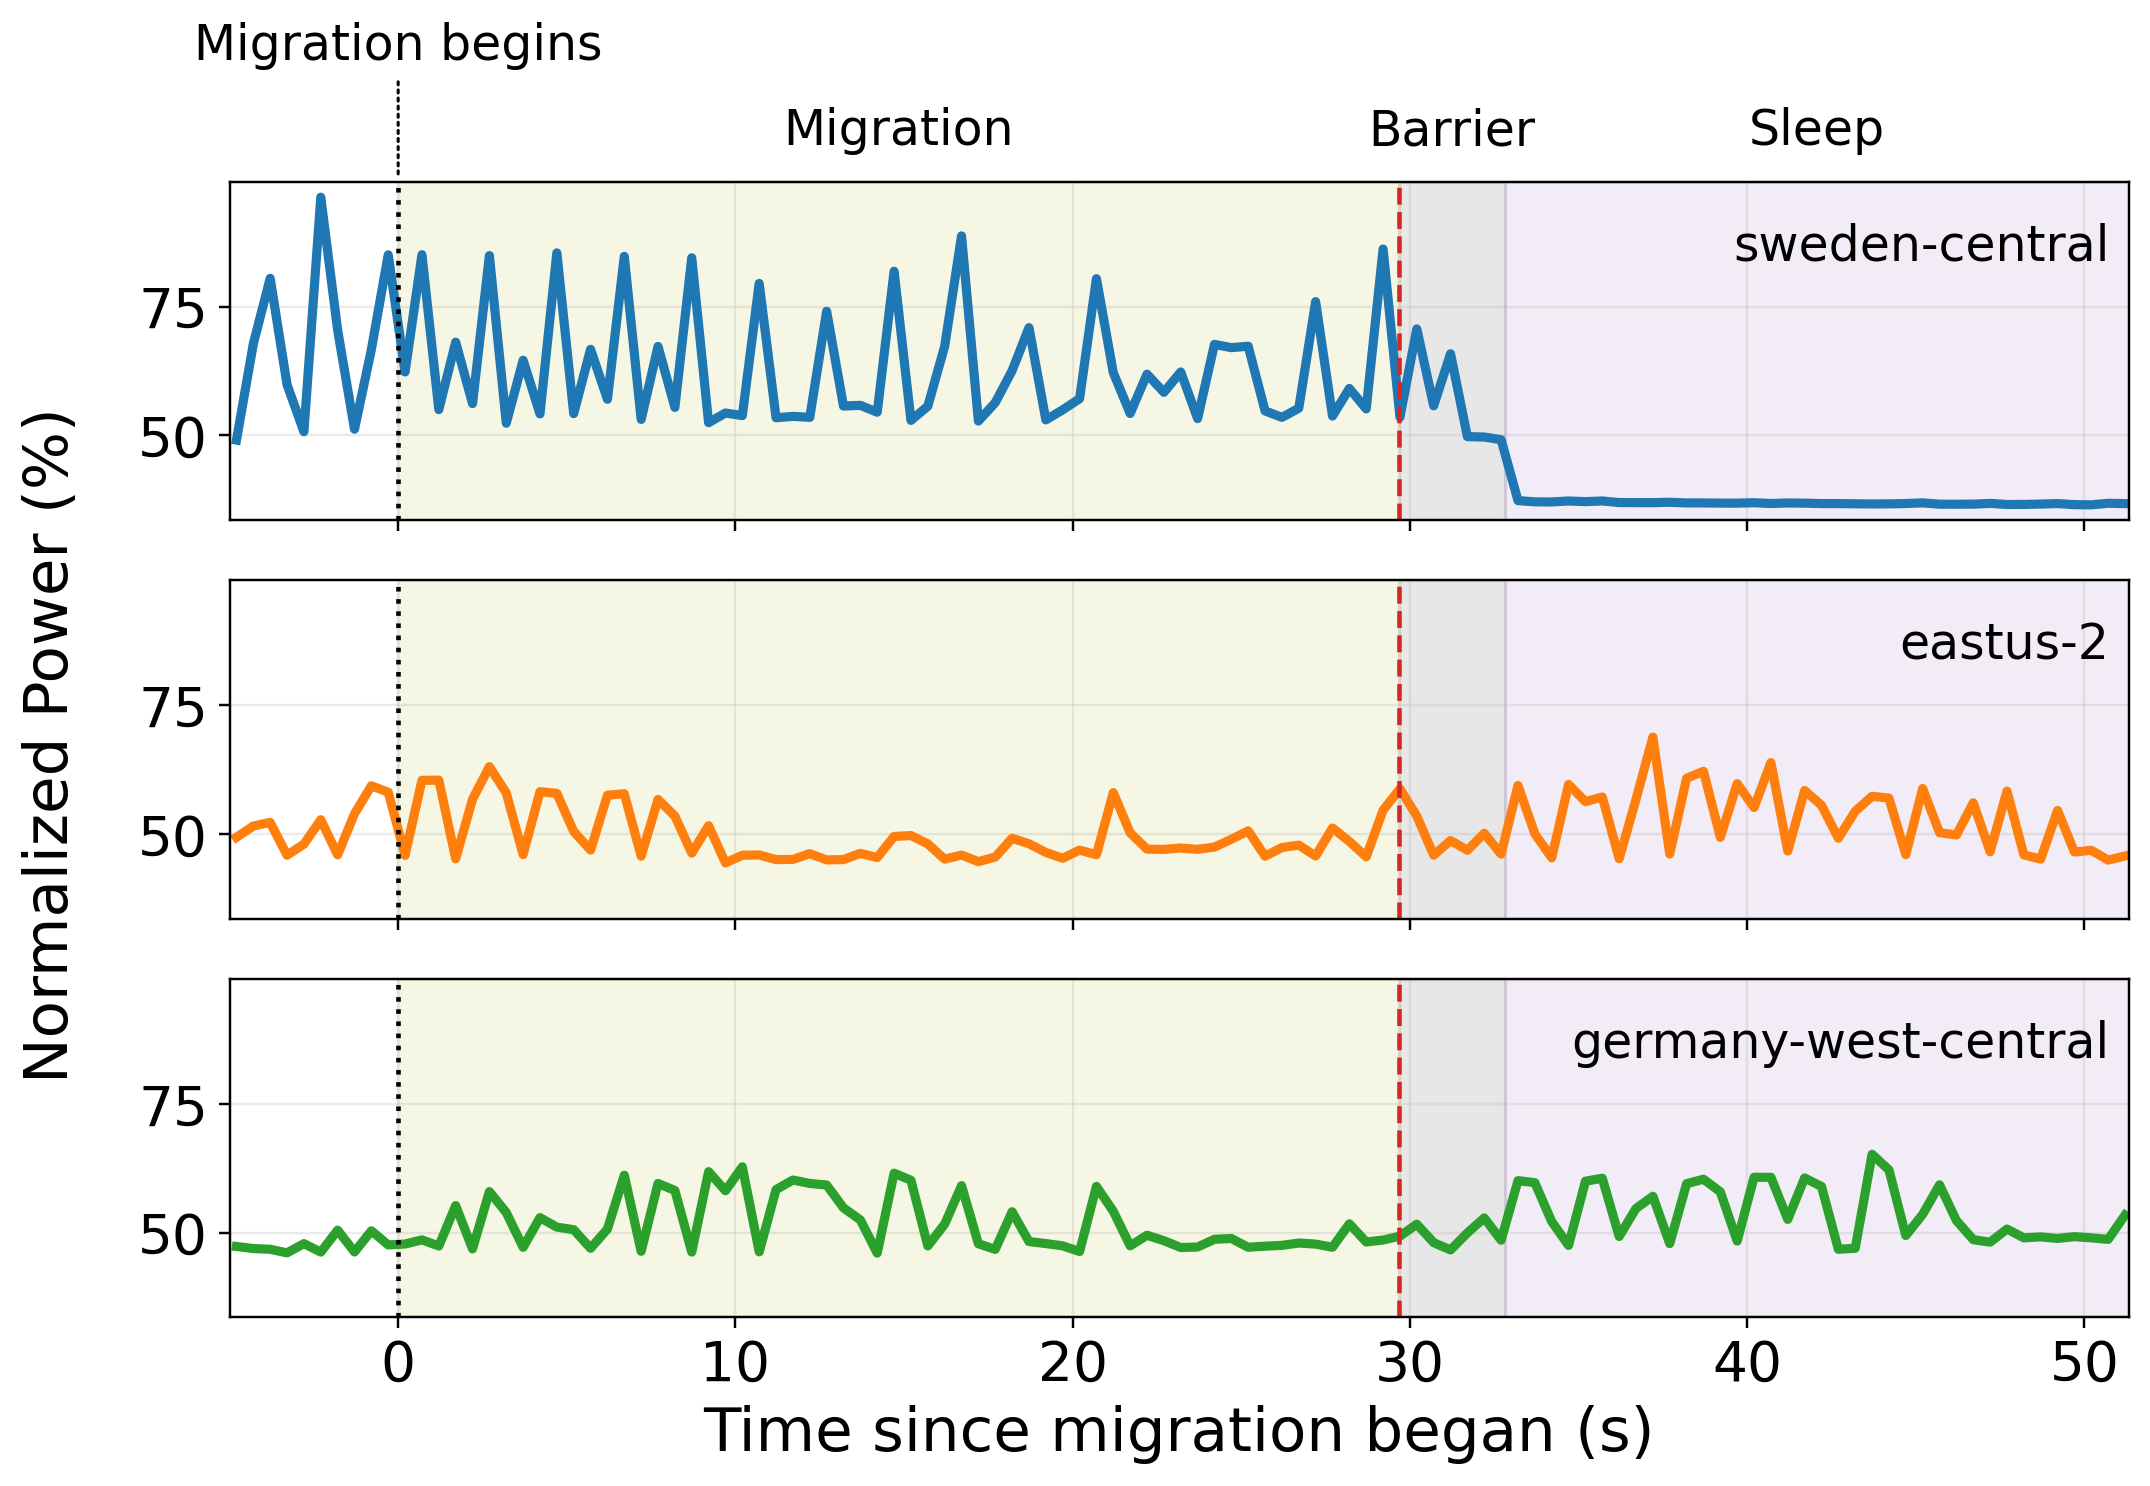
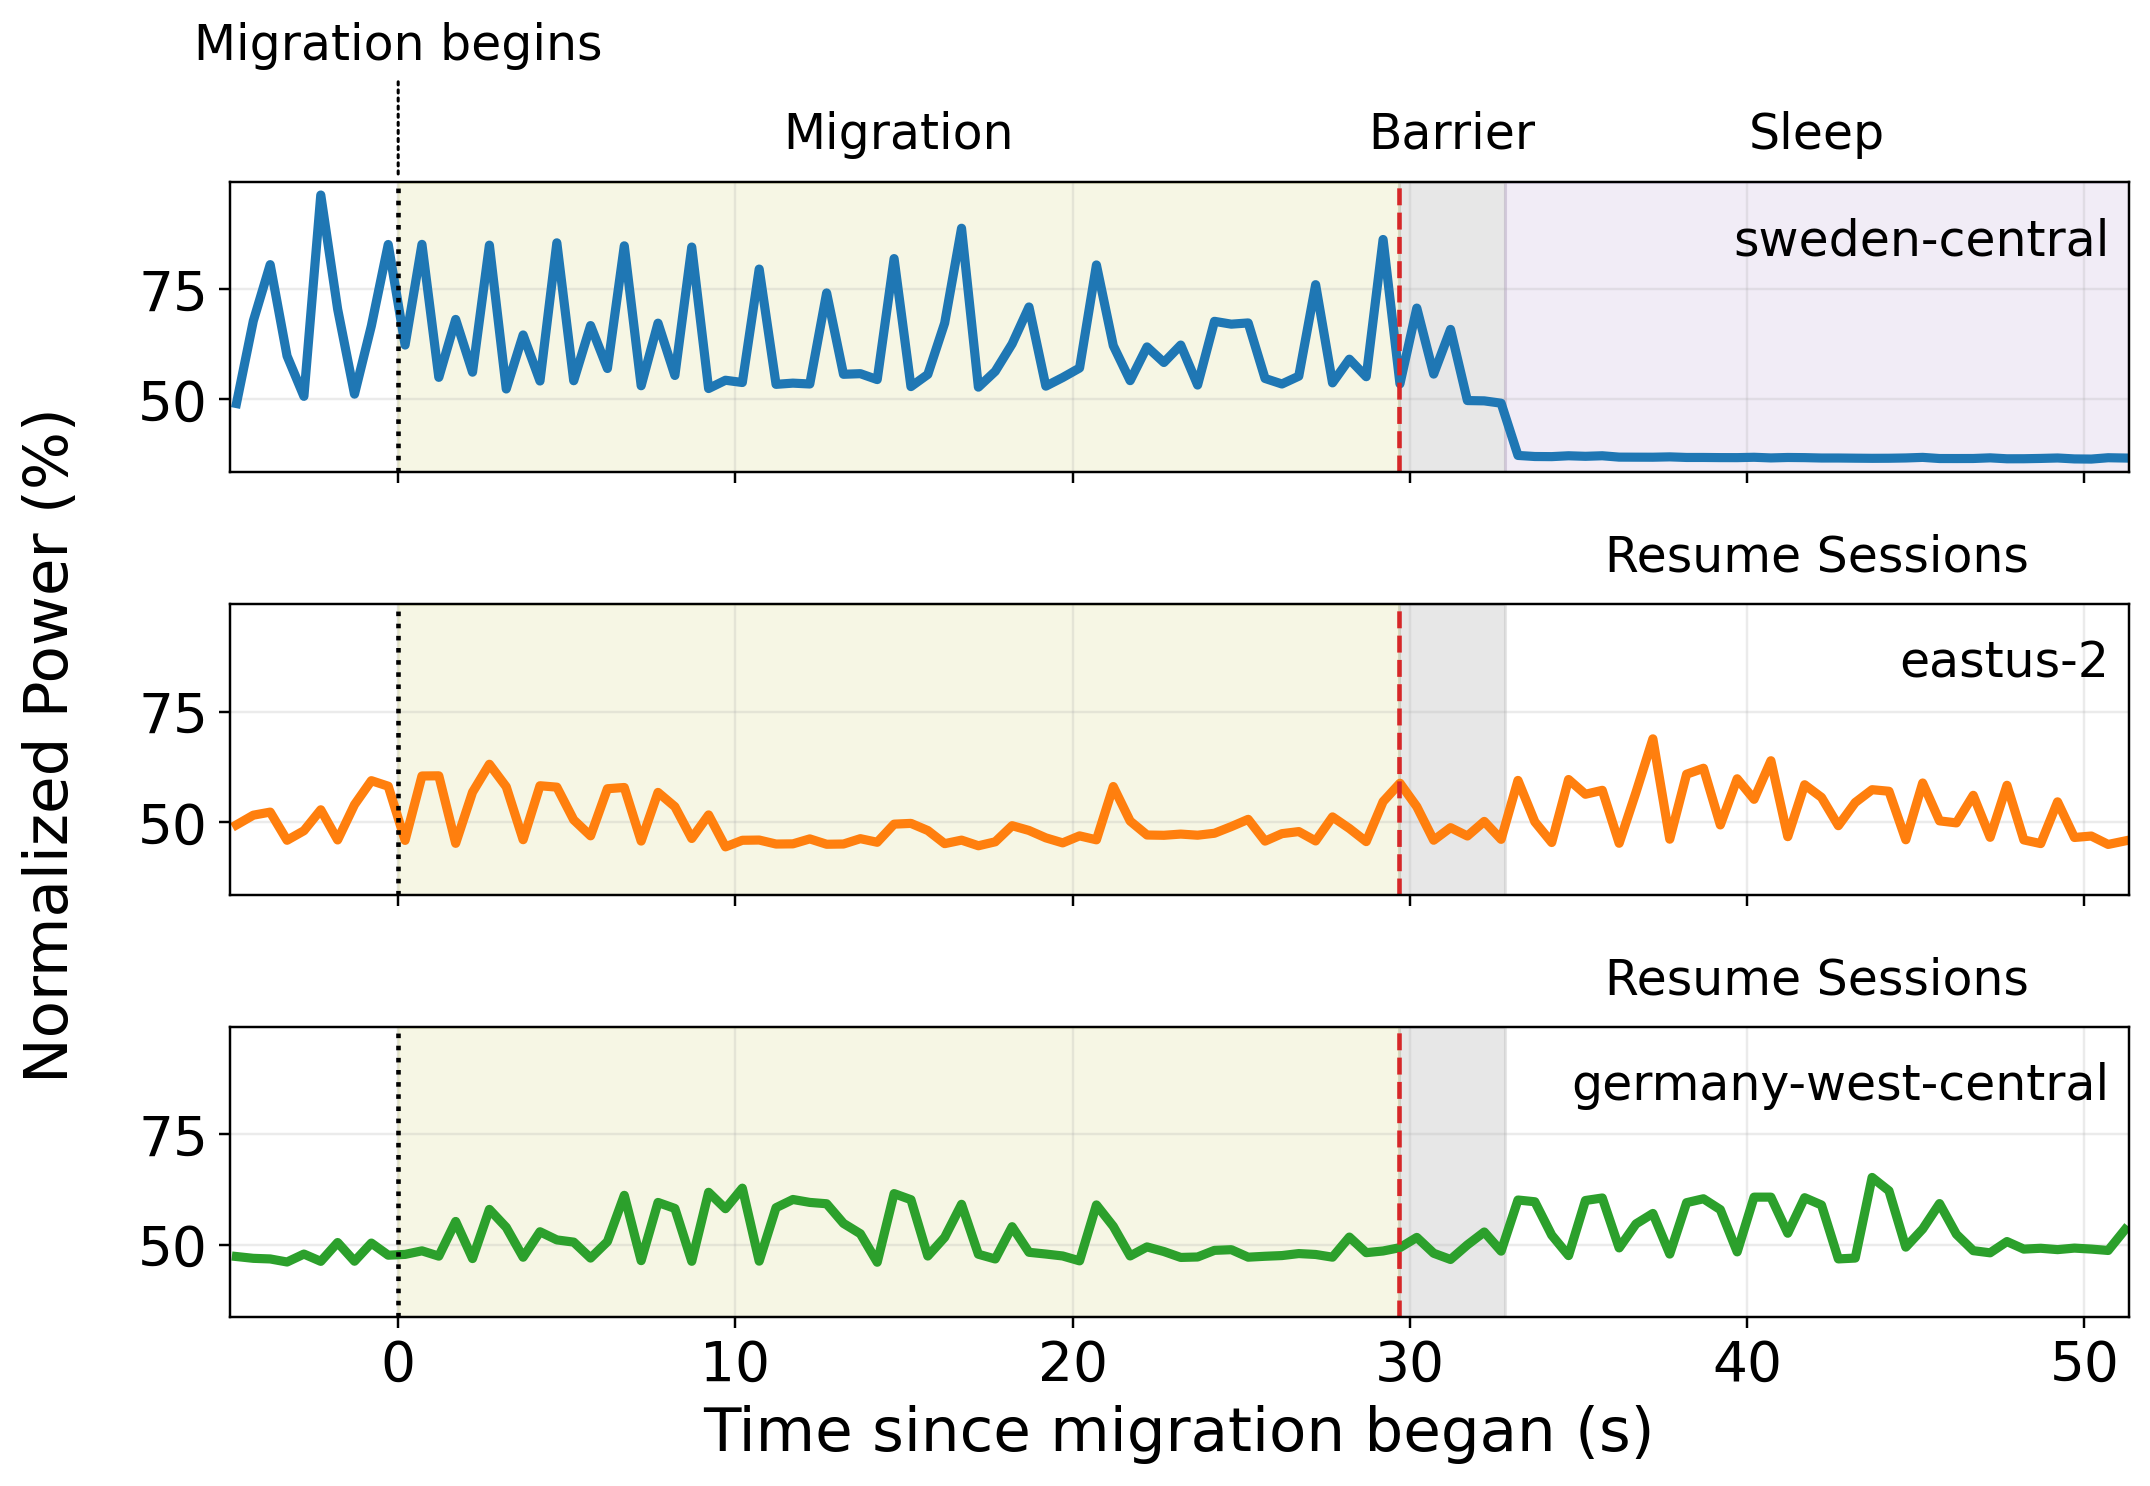
Show destination session resumption instead of sleep in handoff figure

diff --git a/agent-migrate/queue-haul/plot_handoff_power.py b/agent-migrate/queue-haul/plot_handoff_power.py
@@ -129,8 +129,10 @@ def reduce(run_root: Path) -> list[dict]:
         for label, span_start, span_end, color, alpha in SPANS:
             if span_start in marker and span_end in marker:
                 start, end = marker[span_start] - plot_start, marker[span_end] - plot_start
+                if label == "Sleep" and axis is not axes[0]:
+                    label, alpha = "Resume Sessions", 0
                 axis.axvspan(start, end, color=color, alpha=alpha, label=label)
-                if axis is axes[0]:
+                if axis is axes[0] or label == "Resume Sessions":
                     axis.text((start + end) / 2, 1.08, label,
                               transform=axis.get_xaxis_transform(),
                               ha="center", va="bottom", fontsize=16)
